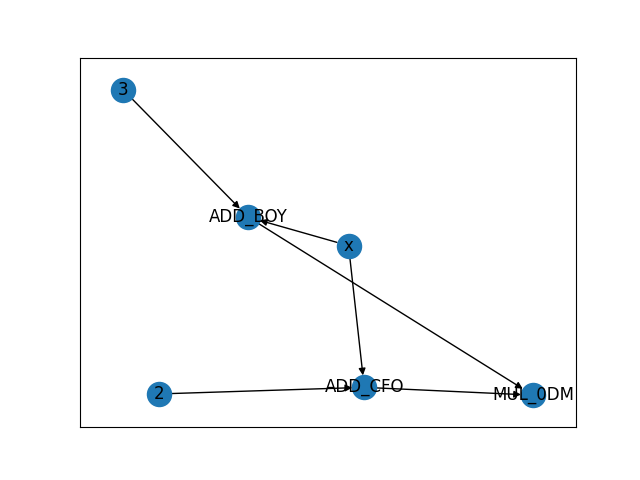
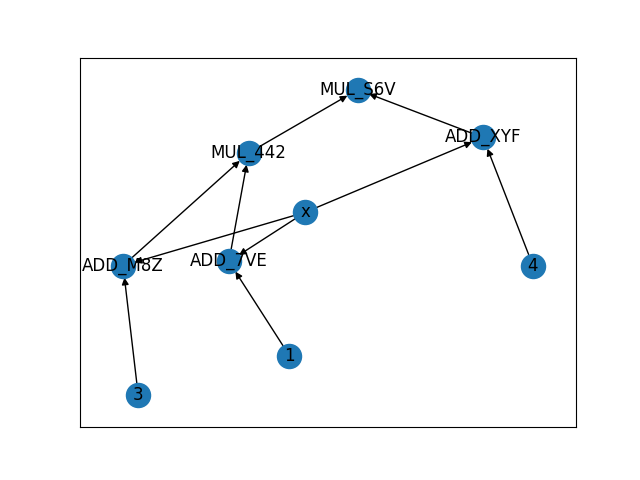
Moved final node and get nodes functions to preprocess

diff --git a/test.py b/test.py
@@ -14,7 +14,7 @@ myshunt = ShuntingYard()
 shuntres = myshunt.tokenize("-x-1-(x-1-x)+-(-x-1)")
 print(shuntres)
 
-shuntres = myshunt.getPostfix("(x+2)*(x+3)")
+shuntres = myshunt.getPostfix("(x+1)*(x+3)*(x+4)")
 
 from CalCoolUs.preprocess import ASTGraph
 
@@ -24,19 +24,12 @@ graph = myASTGraph.getAST(shuntres)
 nx.draw_networkx(graph, with_labels=True)
 plt.savefig("fig.png")
 
-def getFinalNode(graph):
-    for n in graph.nodes:
-        #print(graph.degree[n])
-        if graph.out_degree[n] <= 0:
-            print(n)
-            return n
-        else:
-            pass
-
-print(list(nx.all_simple_paths(graph, source='x', target=getFinalNode(graph))))
-
+print(myASTGraph.getFinalNode(graph))
+ #exit(3)
+print(myASTGraph.getNodes(graph))
+exit(3)
 # plt.show(bbox_inches='tight')
-exit()
+
 for n, z in zip(graph.nodes(data=True), graph.nodes):
 	neighbors = list(nx.DiGraph.reverse(graph, copy=False).neighbors(z))
 	if len(neighbors):

diff --git a/CalCoolUs/preprocess.py b/CalCoolUs/preprocess.py
@@ -194,10 +194,21 @@ class ASTGraph:
         pos = nx.planar_layout(graph, scale=40)
         nx.draw_networkx(graph, pos=pos, with_labels=True)
         plt.savefig(filename)
-
+    def getFinalNode(self, graph):
+        for n in graph.nodes:
+            #print(graph.degree[n])
+            if graph.out_degree[n] <= 0:
+                
+                return n
+            else:
+                pass
+    def getNodes(self, graph):
+        return (list(nx.all_simple_paths(graph, source='x', target=self.getFinalNode(graph))))
     def displayGraph(self, graph):
         pos = nx.planar_layout(graph, scale=40)
         nx.draw_networkx(graph, pos=pos, with_labels=True)
         plt.show(bbox_inches='tight')
-
+#class AutoDiff:
+    
+    
 
